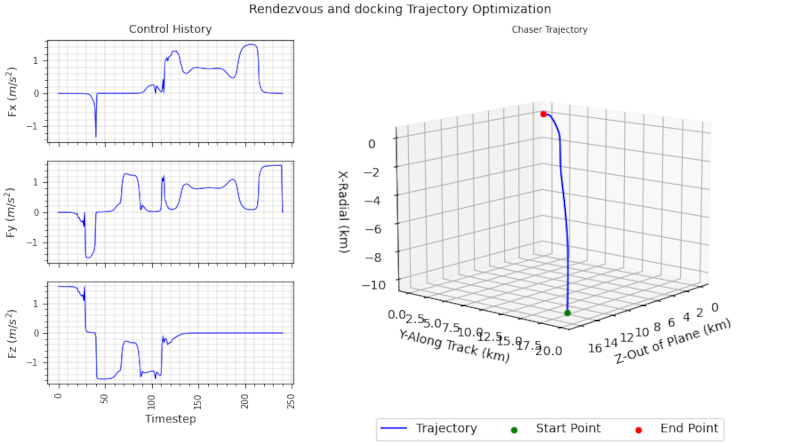
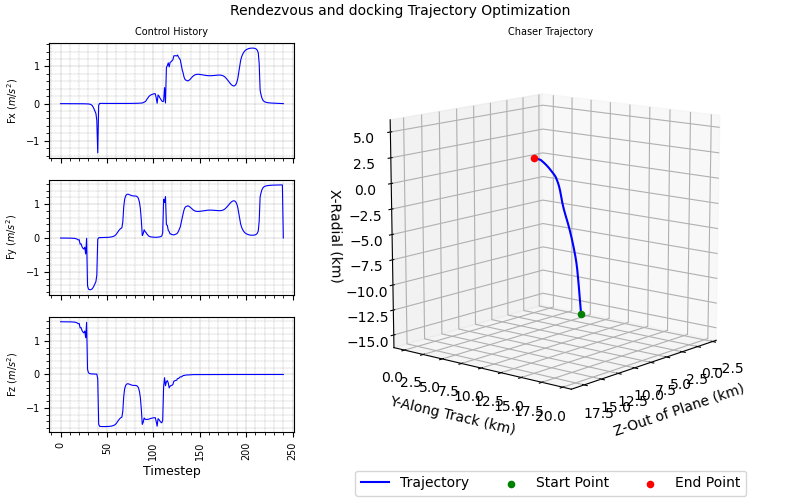
plot function fix

diff --git a/rendezvous_optimizer.py b/rendezvous_optimizer.py
@@ -99,11 +99,10 @@ def estimate():
     prob.solve(solver=cp.CLARABEL)
     
     # on success plot the result
-    if prob.status == 'infeasible' :
-        print(f'STATUS : {prob.status}')
-        return
+    if prob.status == 'optimal' :
+        plot(x.value, u.value)        
     else:
-        plot(x.value, u.value)
+        print(f'STATUS : {prob.status}')
     
     # return
     return
@@ -114,7 +113,9 @@ def estimate():
 # target satellite and the k^ direction pointing in the crosstrack direction,
 # out of the orbital plane, to complete the orthogonal set.
 def plot(X, U):
-    X = X/1E3 # km conversion for display
+    # km conversion for display
+    X = np.round(X, 2)/1E3
+    
     x, y, z    = X[2, :], X[1, :], X[0, :]
     xi, yi, zi = X[2, 0], X[1, 0], X[0, 0]
     xf, yf, zf = X[2, -1], X[1, -1], X[0, -1]
@@ -122,40 +123,63 @@ def plot(X, U):
     #U = control data
     ux, uy, uz = U[2, :].T, U[1, :].T, U[0, :].T
     
+    # Set 3D plot axes to equal scale. 
+    # Required since `ax.axis('equal')` and `ax.set_aspect('equal')` don't work on 3D.
+    # https://stackoverflow.com/questions/13685386/matplotlib-equal-unit-length-with-equal-aspect-ratio-z-axis-is-not-equal-to
+    def set_axes_equal_3d(ax: plt.Axes):    
+        limits = np.array([
+            ax.get_xlim3d(),
+            ax.get_ylim3d(),
+            ax.get_zlim3d(),
+        ])
+        origin = np.mean(limits, axis=1)
+        radius = 0.5 * np.max(np.abs(limits[:, 1] - limits[:, 0]))
+        # set axes
+        x, y, z = origin
+        ax.set_xlim3d([x - radius, x + radius])
+        ax.set_ylim3d([y - radius, y + radius])
+        ax.set_zlim3d([z - radius, z + radius])
+        #
+        return
+    
     # setup plot canvas
-    fig = plt.figure(figsize=(9, 5), constrained_layout=True)
+    fig = plt.figure(figsize=(8, 5), constrained_layout=True)
     fig.suptitle('Rendezvous and docking Trajectory Optimization', fontsize=10)
     gs = fig.add_gridspec(3,3)
 
     # 1st col
     ax1 = fig.add_subplot(gs[0, 0])
     ax1.plot(ux, '-b', linewidth=0.8)
-    ax1.set_title('Control History', fontsize=9)
-    ax1.set_ylabel(r'Fx ($m/s^2$)', fontsize=9)
+    ax1.set_title('Control History', fontsize=7)
+    ax1.set_ylabel(r'Fx ($m/s^2$)', fontsize=7)
     plt.setp(ax1.get_xticklabels(), visible=False)
 
     ax2 = fig.add_subplot(gs[1, 0], sharex=ax1)
     ax2.plot(uy, '-b', linewidth=0.8)
-    ax2.set_ylabel(r'Fy ($m/s^2$)', fontsize=9)
+    ax2.set_ylabel(r'Fy ($m/s^2$)', fontsize=7)
     plt.setp(ax2.get_xticklabels(), visible=False)
 
     ax3 = fig.add_subplot(gs[2, 0], sharex=ax1)
     ax3.plot(uz, '-b', linewidth=0.8)   
-    ax3.set_ylabel(r'Fz ($m/s^2$)', fontsize=9)
+    ax3.set_ylabel(r'Fz ($m/s^2$)', fontsize=7)
     ax3.set_xlabel('Timestep', fontsize=9)
 
     # 2nd col - 3-rows
     ax4 = fig.add_subplot(gs[:, 1:3], projection='3d') 
     ax4.view_init(azim=40., elev=12.)
     ax4.plot(x, y, z, '-b', linewidth=1.5)
-    ax4.scatter(xi, yi, zi, color='green') # , s=100
-    ax4.scatter(xf, yf, zf, color='red') # , s=100    
+    ax4.scatter(xi, yi, zi, color='green')
+    ax4.scatter(xf, yf, zf, color='red')    
     ax4.set_title('Chaser Trajectory', fontsize=7)
     ax4.set(xlabel='Z-Out of Plane (km)',
             ylabel='Y-Along Track (km)',
             zlabel='X-Radial (km)')
     ax4.legend(['Trajectory', 'Start Point', 'End Point'], loc='upper center',
-              bbox_to_anchor=(0.5, -0.1), frameon=True, borderaxespad=0, ncol = 3)    
+              bbox_to_anchor=(0.5, -0.1), frameon=True, borderaxespad=0, ncol = 3)
+
+    # set correct aspect ratio
+    ax4.set_box_aspect([1,1,1])
+    set_axes_equal_3d(ax4)    
 
     # set ticks and grid lines
     for ax in [ax1, ax2, ax3]:
@@ -166,8 +190,8 @@ def plot(X, U):
         ax.minorticks_on()
         ax.xaxis.set_tick_params(labelsize=7, rotation=90)
         ax.yaxis.set_tick_params(labelsize=7)    
-    # end-for        
-
+    # end-for
+    
     plt.show()
     # return
     return
